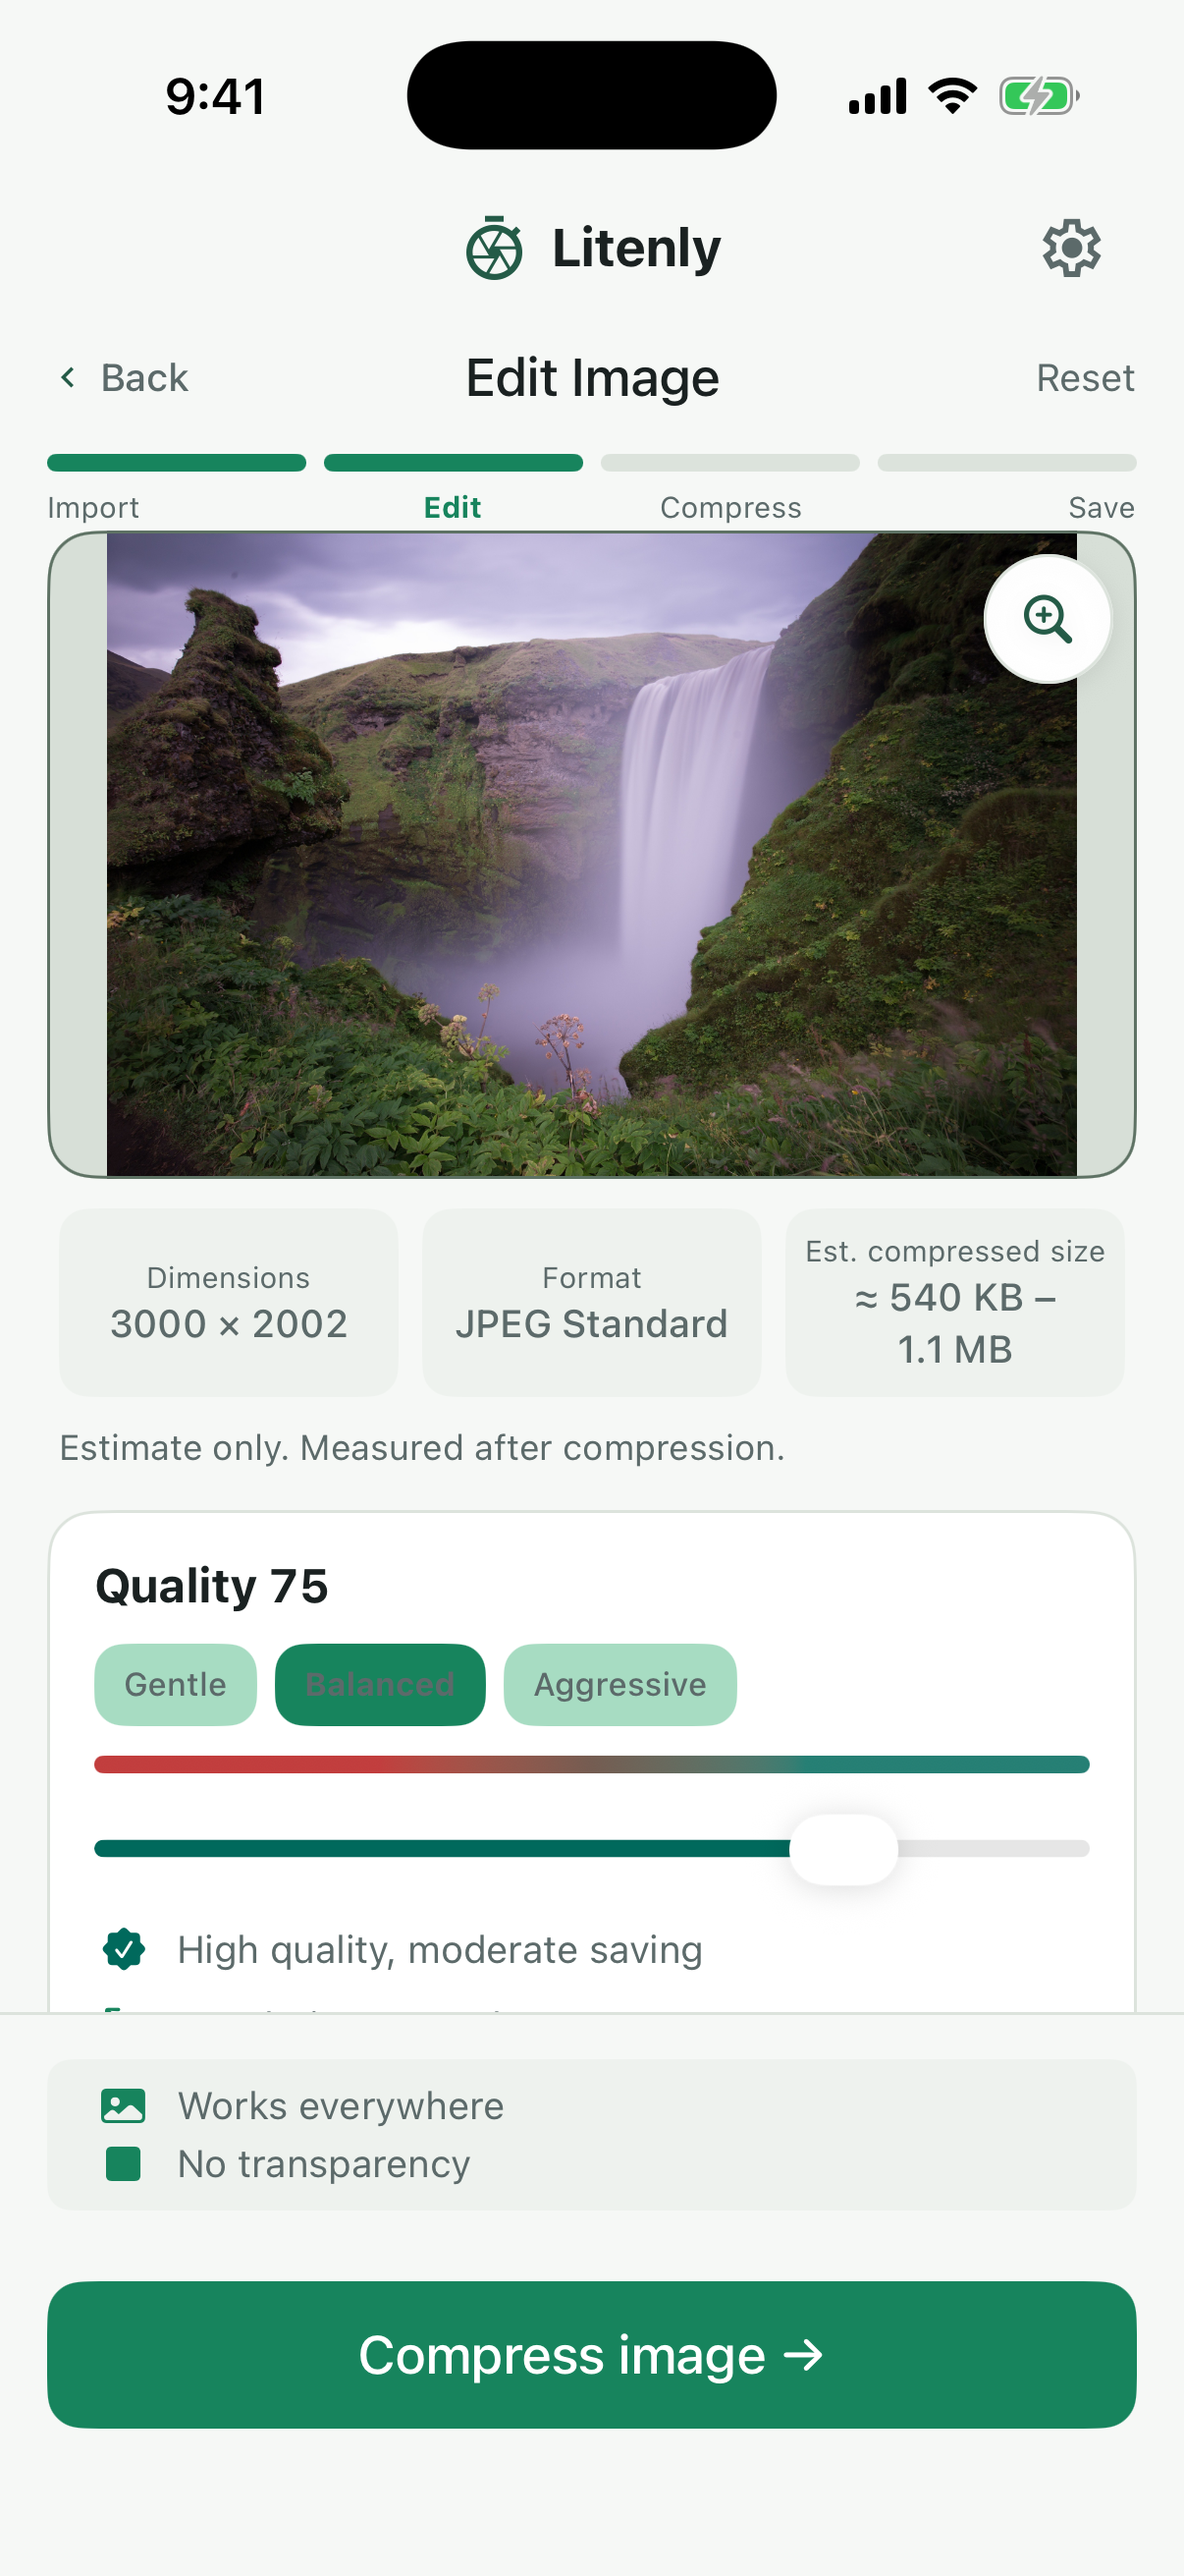
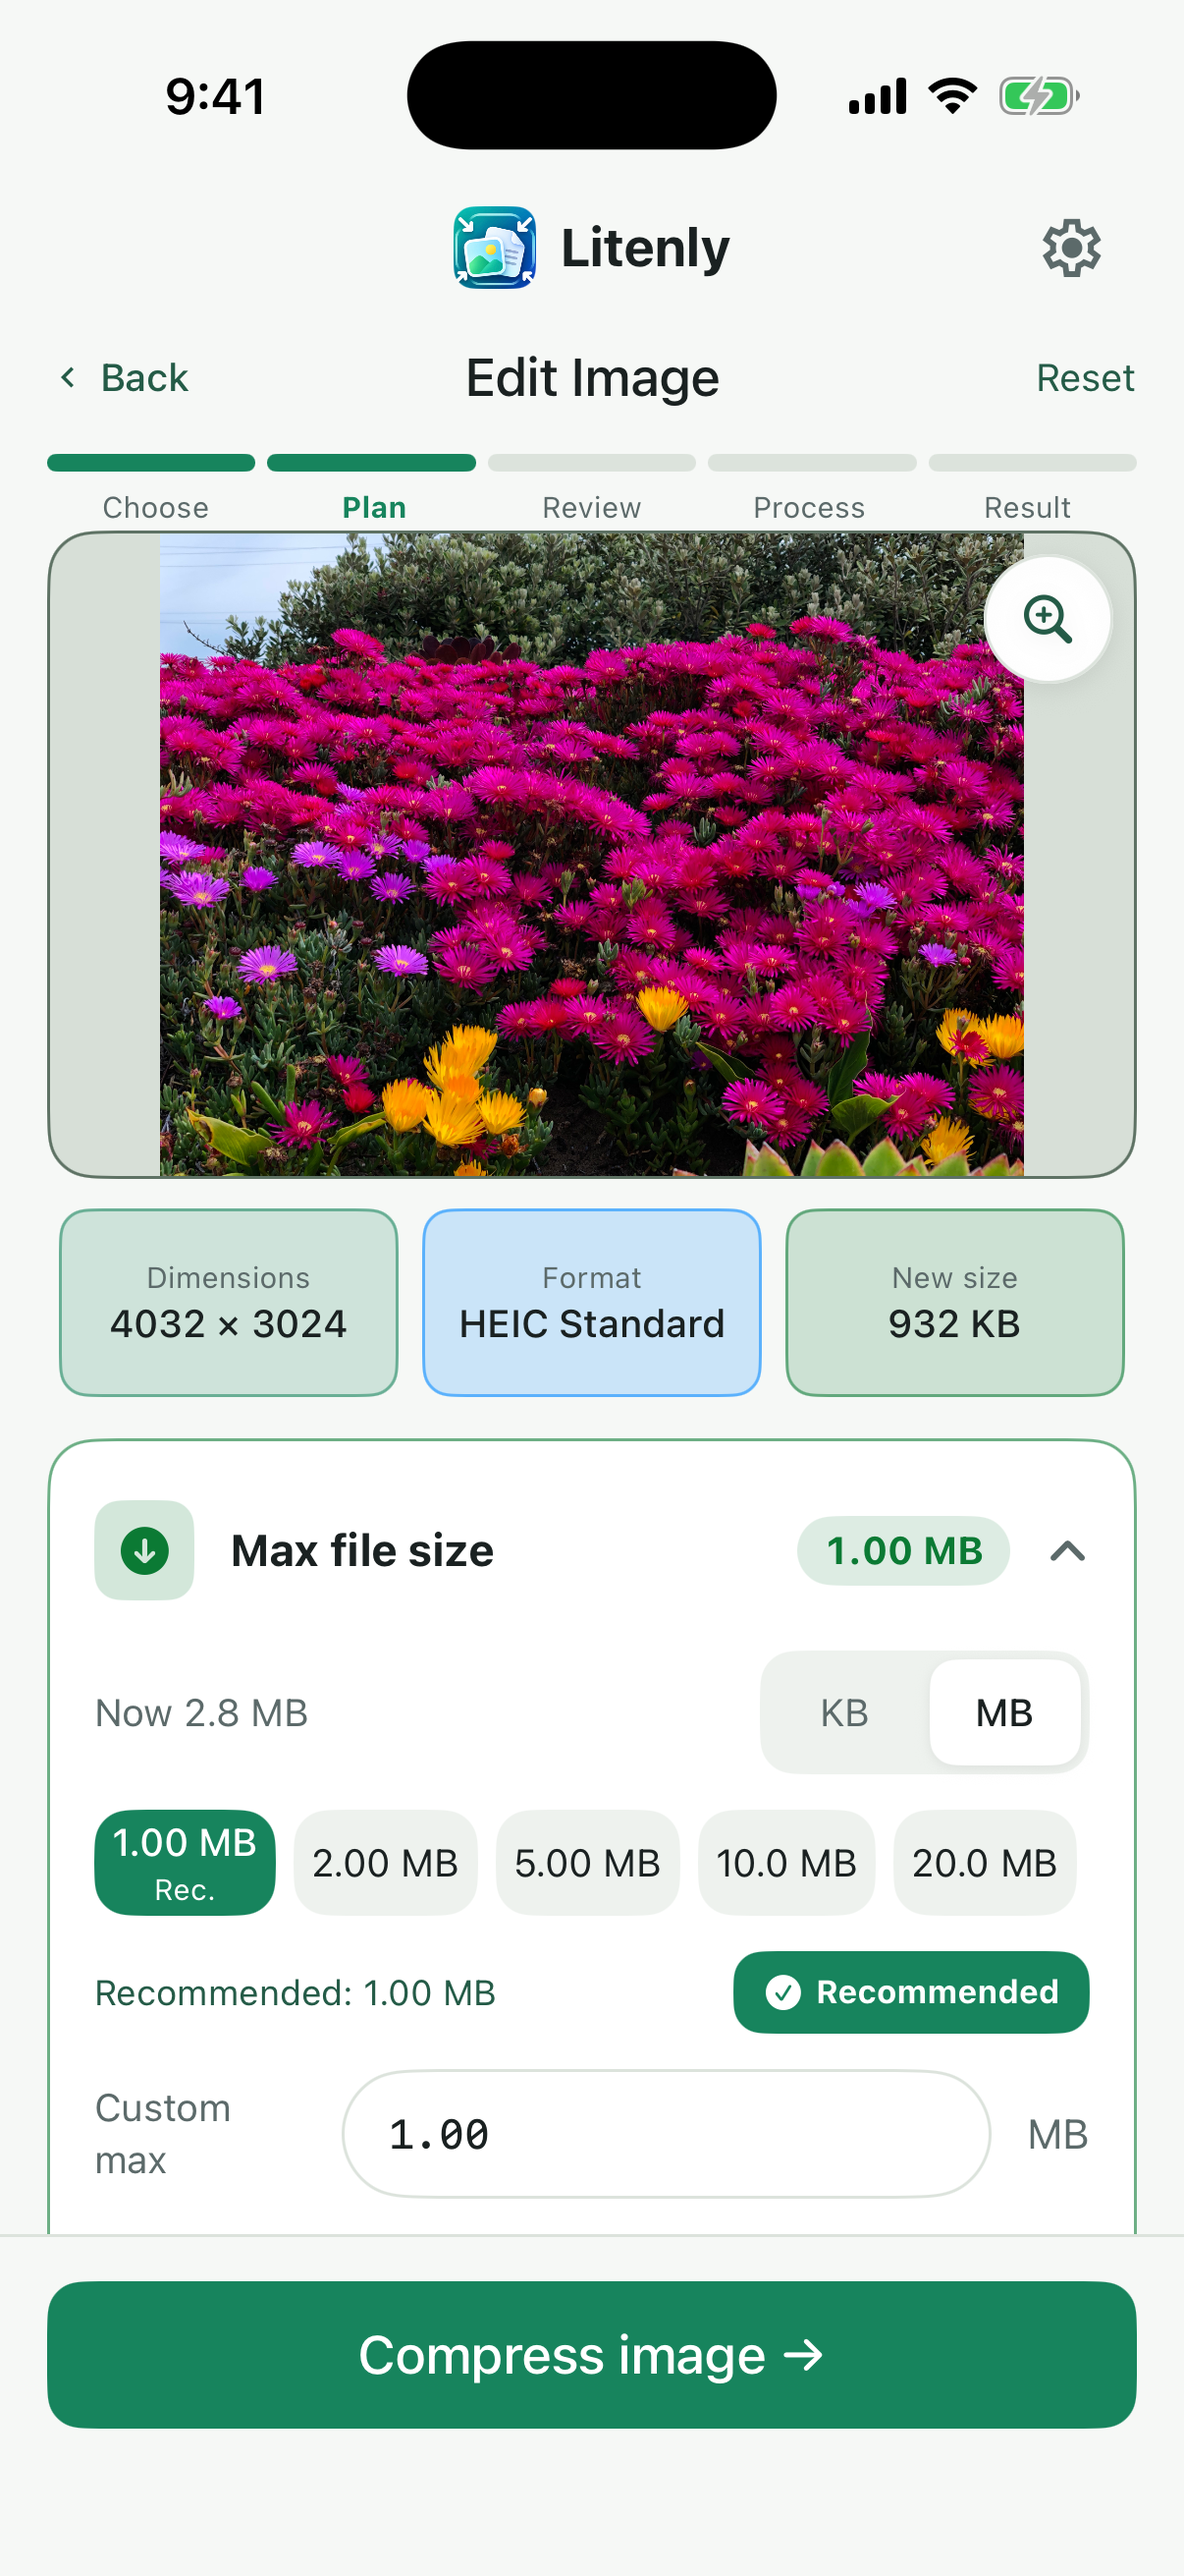
feat: match the website to the current app and prepare it for App Store review
- Replace screenshots and update home, support and privacy policy content
- Add 404 page, robots.txt and sitemap.xml
- Force https in canonical and social preview URLs

diff --git a/src/data/site.ts b/src/data/site.ts
@@ -3,7 +3,7 @@ export const site = {
   fullName: 'Litenly: Photo Compressor',
   tagline: 'Lighter files. Simpler life.',
   description:
-    'Litenly is an iPhone app that compresses photos and PDFs on your device. Choose a quality or a size limit, compare the result, and keep your original.',
+    'Litenly is an iPhone app that compresses photos and PDFs on your device. Set a maximum file size, compare the result, and decide what happens to your original.',
   bundleId: 'com.qbatch.litenly',
   platform: 'iPhone, iOS 17 or later',
   /** Paste the App Store URL here once the listing exists. Download buttons appear automatically. */

diff --git a/src/pages/sitemap.xml.ts b/src/pages/sitemap.xml.ts
@@ -1,0 +1,11 @@
+import type { APIRoute } from 'astro';
+import { navLinks } from '../data/site';
+
+export const GET: APIRoute = ({ site }) => {
+  // Trailing slashes match the canonical URL of each page.
+  const urls = navLinks.map((l) => `  <url><loc>${new URL(l.href.replace(/\/?$/, '/'), site).href}</loc></url>`);
+  return new Response(
+    `<?xml version="1.0" encoding="UTF-8"?>\n<urlset xmlns="http://www.sitemaps.org/schemas/sitemap/0.9">\n${urls.join('\n')}\n</urlset>\n`,
+    { headers: { 'Content-Type': 'application/xml' } },
+  );
+};

diff --git a/src/pages/robots.txt.ts b/src/pages/robots.txt.ts
@@ -1,0 +1,5 @@
+import type { APIRoute } from 'astro';
+import { withBase } from '../data/site';
+
+export const GET: APIRoute = ({ site }) =>
+  new Response(`User-agent: *\nAllow: /\n\nSitemap: ${new URL(withBase('/sitemap.xml'), site).href}\n`);

diff --git a/README.md b/README.md
@@ -26,7 +26,7 @@ The static output is written to `dist/`. Deploy that folder to any static host.
 
 ## Before publishing
 
-- On a host other than GitHub Pages, set the domain when building, for canonical URLs and social preview images: `SITE_URL=https://your-domain npm run build`.
+- The domain defaults to `https://litenly.lixul.com`. On another domain, set it when building: `SITE_URL=https://your-domain npm run build`.
 - Add the App Store URL in `src/data/site.ts` once the listing exists.
 - Have the owner and legal counsel review `src/pages/privacy-policy.astro`. Add the company's legal name and a contact method, then update the date.
 - Re-check feature and privacy statements against the release build of the app.
